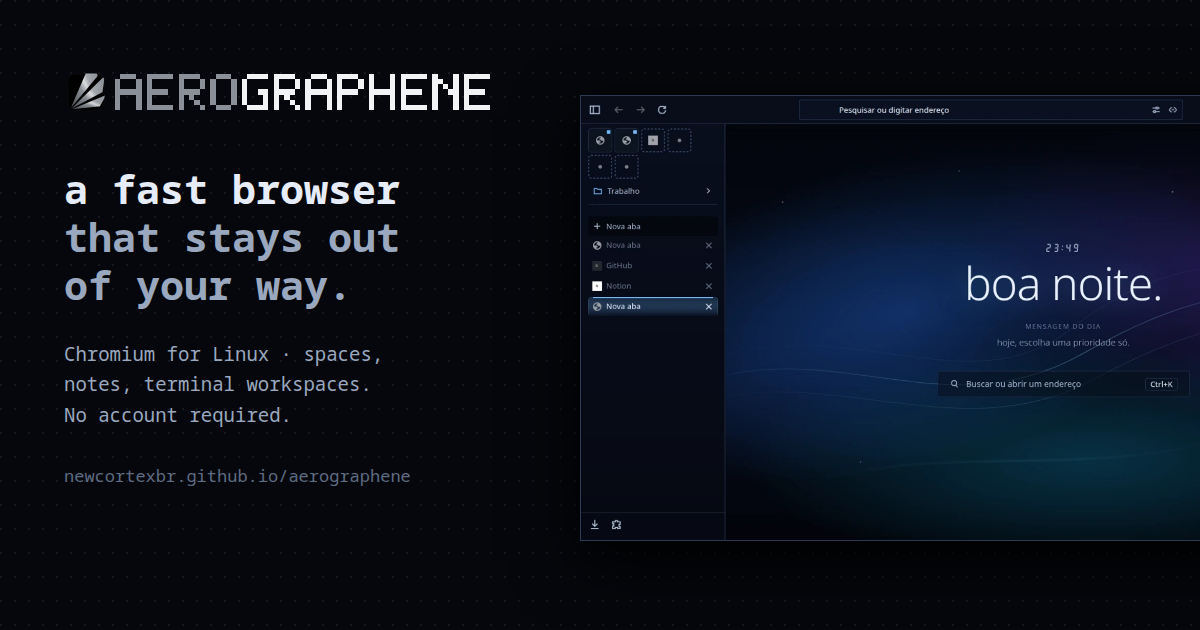
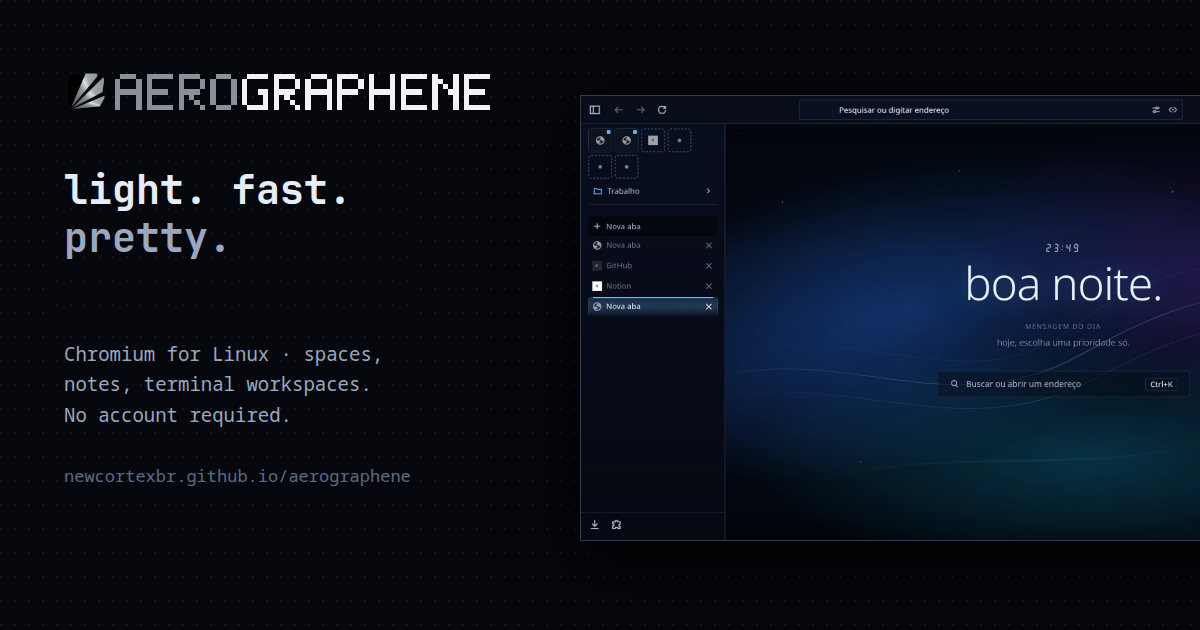
site: tagline light. fast. pretty.

Changed region(s): [[0.0308, 0.3619, 0.3392, 0.4825], [0.0308, 0.2714, 0.3392, 0.3317]]

diff --git a/index.html b/index.html
@@ -14,7 +14,7 @@
 <meta property="og:image" content="https://newcortexbr.github.io/aerographene/og.png">
 <meta property="og:image:width" content="1200">
 <meta property="og:image:height" content="630">
-<meta property="og:image:alt" content="aerographene: a fast browser that stays out of your way, next to a screenshot of the browser">
+<meta property="og:image:alt" content="aerographene: light. fast. pretty. Next to a screenshot of the browser">
 <meta property="og:site_name" content="aerographene">
 <meta name="twitter:card" content="summary_large_image">
 <meta name="twitter:title" content="aerographene: a fast Chromium browser for Linux">
@@ -49,7 +49,7 @@
 
 <main>
 <section class="pane hero" id="top" data-title="hello">
-  <h1>a fast browser<br><em>that stays out of your way.</em></h1>
+  <h1>light. fast.<br><em>pretty.</em></h1>
   <p class="lede">A Chromium fork for Linux, tuned for startup and memory, with spaces, markdown notes and terminal workspaces built in. No account needed, nothing asks you to sign in. Free, GPL-3.0, made for fun.</p>
   <div class="install">
     <div class="tabs" role="tablist">
